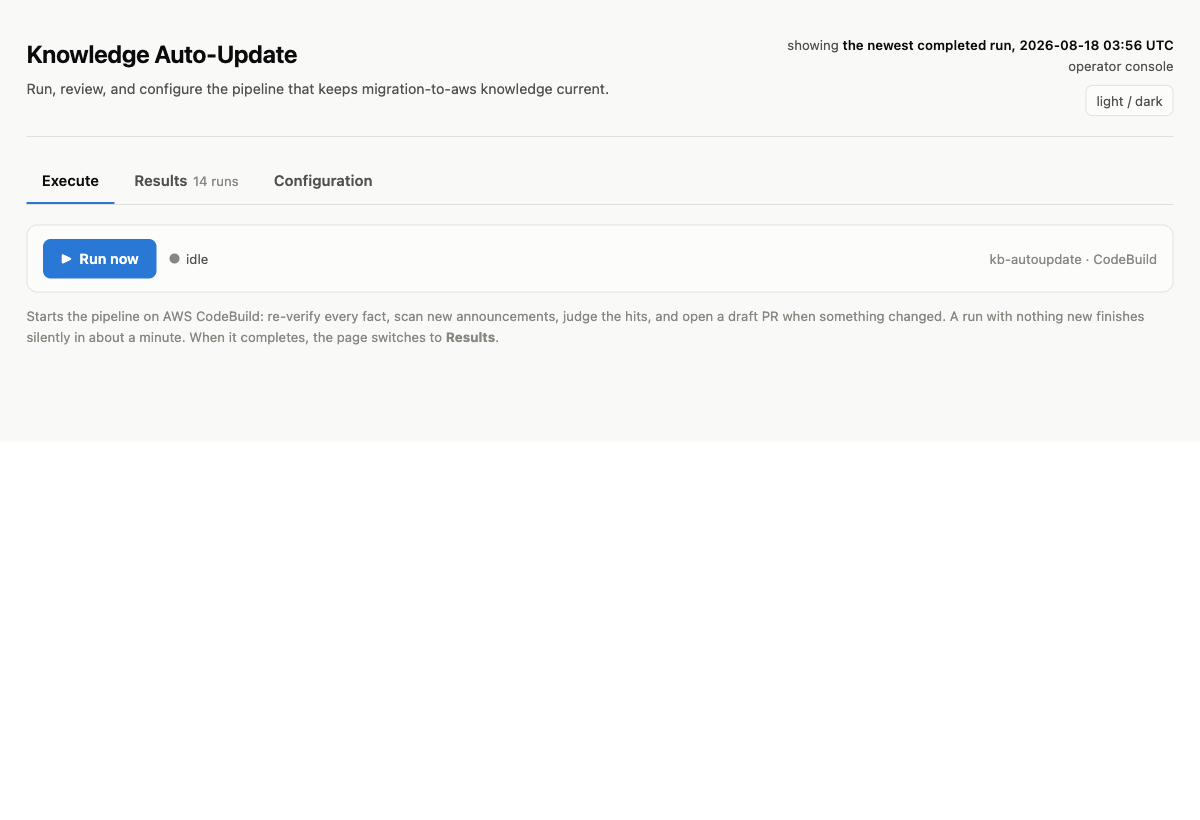
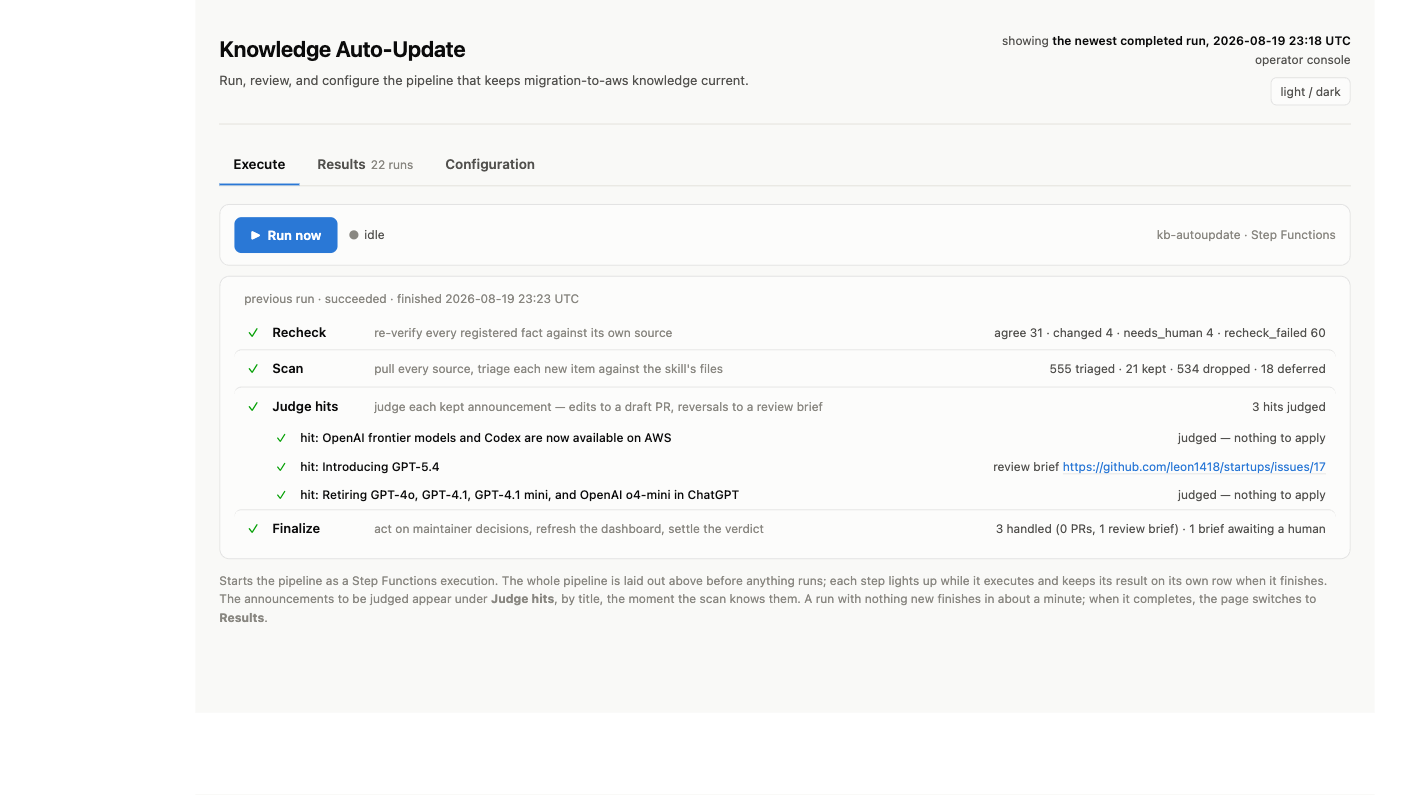
docs(kb-autoupdate): decision-brief loop, nine model calls, refreshed console screenshots

diff --git a/migrate/docs/kb-autoupdate-review.md b/migrate/docs/kb-autoupdate-review.md
@@ -71,21 +71,32 @@ for the thing it described, and the judge records that in an explicit "still tru
 distinction is exactly what a naive diff-and-rewrite lacks (§1's worked example is the case in
 point). Second, _how far it reaches:_ blast radius comes from searching the whole tree rather
 than from file descriptions, because a file can depend on a fact without being "about" it — and
-those are the files whose conclusions flip.
+those are the files whose conclusions flip. When any conclusion does flip, the judge writes one
+more thing: a _decision brief_ — what changed, the real options and what each depends on, a
+proposed position, and every assumption that position rests on — because a reversal opens a
+decision space (GA maturity, cost structure, workload fit) that no line-level rewrite can
+carry.
 
 **Layer 4 — Actions.** Independent consumers of judge output, and the only layer that writes
-anywhere. The draft PR is the only knowledge writer: it touches only locations the judge
-named, refuses any edit whose before-text is not actually present, and lists every skipped edit
-and its own known limits in the PR body — so the PR cannot be mistaken for a complete or
-infallible change. The dashboard is a long-lived GitHub issue rewritten every run (plus a
-local operator console over the same state); a ticked checkbox is a _request the next run acts
-on_, not a command executed on click — which is why it needs no API and no auth layer. The
-failure alert (SNS → email) exists because a quiet week and a dead pipeline must look
-different. New actions — notify a channel, regenerate a doc, target another repo — plug in
-without touching layers 1–3.
+anywhere. The verdict decides which of two products a change becomes. Mechanical changes — a
+value moved, a derived sentence to update — become a draft PR, the only knowledge writer: it
+touches only locations the judge named, refuses any edit whose before-text is not actually
+present, and lists every skipped edit and its own known limits in the PR body — so the PR
+cannot be mistaken for a complete or infallible change. A reversed recommendation, or an
+announcement the judge could not classify, is never rewritten: it becomes a _review issue_
+carrying the decision brief, and waits. The maintainer sets the position on the issue (adopt,
+adopt with changes, or reject); the next run then does the typing — it propagates the approved
+position through the same blast-radius machinery and opens the draft PR, which is still
+reviewed. The human holds both gates, direction first and execution after; the machine only
+does the mechanical middle. The dashboard is a long-lived GitHub issue rewritten every run
+(plus the operator console over the same state), and it lists every brief still waiting on a
+decision; a ticked checkbox is a _request the next run acts on_, not a command executed on
+click — which is why it needs no API and no auth layer. The failure alert (SNS → email)
+exists because a quiet week and a dead pipeline must look different. New actions — notify a
+channel, regenerate a doc, target another repo — plug in without touching layers 1–3.
 
 **Where AI ends and code begins.** The pipeline itself is deterministic; models appear at
-exactly seven points, each a narrow question under a forced JSON schema (all seven prompts
+exactly nine points, each a narrow question under a forced JSON schema (all nine prompts
 are in the appendix, verbatim). A model never triggers an action — every answer passes a code
 gate before it has any effect: the magnitude guard, the pin, the single-location rule for
 auto-edits, the judge cap, the before-text check. The alternative — agents with tool loops —
@@ -95,19 +106,21 @@ judgment point is unit-testable in isolation, and the one case that genuinely ne
 evidence (a re-verification that disagrees) is covered by a fixed second-opinion call rather
 than a loop.
 
-**The human stays in charge.** Nothing merges without review. A rejected conclusion is
-recorded as a _pin_ on the fact (with the evidence that would lift it), so the system never
-re-proposes the same rejected change weekly — the mechanism that already protects the one case
-where a vendor's own docs were wrong.
+**The human stays in charge.** Nothing merges without review, and nothing reversed is even
+_drafted_ without a maintainer's position. A rejected conclusion is recorded as a _pin_ on the
+fact (with the evidence that would lift it), so the system never re-proposes the same rejected
+change weekly — the mechanism that already protects the one case where a vendor's own docs
+were wrong.
 
 ## 3. Verification and deployment
 
 All on live sources and Bedrock (Haiku for extraction/triage, Sonnet for judgment), account
 767582656617. One verified run works through the four layers top to bottom. Discovery hits
-feed the judge, whose verdict routes the outcome — `no_change` ends in silence, `needs_human`
-(insufficient evidence) surfaces for review, anything else in a draft PR. Re-verification outcomes take the shorter path: an `agree` refreshes the fact's
-timestamp, anything else surfaces for a human with an independent second opinion attached —
-deliberately short of auto-editing, per §4's posture on value changes.
+feed the judge, whose verdict routes the outcome — `no_change` ends in silence, mechanical
+changes in a draft PR, and a reversed or unclassifiable change in a review issue that waits
+for a maintainer's decision. Re-verification outcomes take the shorter path: an `agree`
+refreshes the fact's timestamp, anything else surfaces for a human with an independent second
+opinion attached — deliberately short of auto-editing, per §4's posture on value changes.
 
 | Claim                                                 | Evidence                                                                                                                                                                                  |
 | ----------------------------------------------------- | ----------------------------------------------------------------------------------------------------------------------------------------------------------------------------------------- |
@@ -118,6 +131,7 @@ deliberately short of auto-editing, per §4's posture on value changes.
 | The whole loop closes                                 | button-press → 2–5 min run → draft PR #11 with per-edit justification; a no-news run finishes silently in ~70 s                                                                       |
 | Configuration is self-serving                         | two-pass bootstrap: 11 facts from the skill's declared volatile spots plus 84 typed claims extracted from prose (each with an HTTP-verified source URL, arriving disabled for human review) — the registry grew 6 → 99; UI edits are live on the next run |
 | Failures retry instead of vanishing                   | a hit deferred by the per-run judge cap returned on the next run and produced its draft PR — "seen" means *handled*, not fetched, so a deferred hit, a crashed judge, or a dead build all come back automatically                                          |
+| A reversal is a decision, not a rewrite               | flipped verdicts route to a four-section decision brief instead of a PR: on the runtime-instances case the brief named 4 real options and 8 explicit assumptions (GA maturity, unmodeled capacity-provider pricing, region limits) — and its proposed position warned against exactly the blanket rewrite a silent PR would have made. The first live brief opened the same day: an out-of-order GPT-5.4 replay that the judge refused to guess about |
 | Cost                                                  | ~$1–2 per full run at current caps (estimated from capped call counts — token usage is not yet instrumented); a quiet incremental run costs cents. Fixed cost ≈ the KMS key + one secret  |
 
 Deployment is deliberately small — the whole pipeline is one CloudFormation stack (16
@@ -135,9 +149,9 @@ separately visible state, so progress is first-class instead of log-grepping. Fa
 own channel — execution FAILED → EventBridge → SNS → email — so a dead pipeline cannot be
 mistaken for a quiet week.
 
-On the GitHub side the pipeline only ever produces reviewable artifacts: draft PRs and one
-long-lived dashboard issue. `main` changes only through reviewed PRs; the pipeline never
-merges. The POC has so far run against a maintainer's fork, which means zero footprint on
+On the GitHub side the pipeline only ever produces reviewable artifacts: draft PRs,
+review-brief issues, and one long-lived dashboard issue. `main` changes only through reviewed
+PRs; the pipeline never merges. The POC has so far run against a maintainer's fork, which means zero footprint on
 `awslabs/startups` — no secret, no workflow, no bot branch, and the GitHub token is
 fine-grained to the fork, returning 403 anywhere else _by construction_. Retargeting the real
 repo is a two-parameter change plus an org-scoped token (§5.2).
@@ -221,15 +235,18 @@ with the operator's alias.
 
 The header's three verbs are the three tabs.
 
-**Execute** — one button starts a Step Functions execution; every stage, and every judged
-hit, reports its own status as a chip while it runs, and the page switches to Results when
-the run completes. A no-news run finishes
-silently in about a minute.
+**Execute** — one button starts a Step Functions execution. The whole pipeline is laid out
+as a step list before anything runs, so the operator always knows what comes next; each step
+lights up while it executes and keeps its result on its own row when it finishes (the
+announcements being judged appear under Judge hits, by title, the moment the scan knows them,
+each ending in a draft-PR or review-brief link). The previous run's steps stay on screen
+between runs. A no-news run finishes in about a minute.
 
-![The Execute tab: a Run now button, the current build status, and nothing else](../kb-autoupdate-poc/screenshots/console-execute.png)
+![The Execute tab: the full pipeline as a step list — every step's status and result on its own row, judged hits with their PR or brief links](../kb-autoupdate-poc/screenshots/console-execute.png)
 
 **Results** — every archived run, summary first: a one-line verdict (*Something changed / Needs
-a look / All quiet*) with the draft-PR link when one was opened, four counters, and each
+a look / All quiet*) with the draft-PR or review-brief link when one was produced, a standing
+banner listing every brief still waiting on a maintainer's decision, four counters, and each
 monitor's detail behind a fold. The dropped-announcements list stays reviewable — every entry
 links to the original announcement, because that list is the only place a false negative can
 surface.
@@ -254,15 +271,17 @@ Idle cost is effectively zero.
 
 ---
 
-## Appendix — the seven model calls (prompt review)
+## Appendix — the nine model calls (prompt review)
 
 Every model call in the pipeline is a narrow question with a forced JSON schema, wrapped in
 code guards — the model answers, code decides. These are the prompts verbatim (extracted from
 the source, not paraphrased), each with its output contract and the guards that gate its
-effect. Reviewing these seven texts is reviewing all of the system's AI judgment. They have
+effect. Reviewing these nine texts is reviewing all of the system's AI judgment. They have
 already survived one round of AI review: it corrected an inverted unit-conversion rule, made
 the vendor framing neutral, added the judge's insufficient-evidence exit, and hardened three
-citation paths into mechanically checked quotes.
+citation paths into mechanically checked quotes. Calls 8 and 9 were added with the decision
+brief loop, after review feedback that a reversed recommendation needs a human position, not
+a rewrite.
 
 ### 1 · Recheck — does the stored value still hold?
 
@@ -340,7 +359,7 @@ If you keep it, list ONLY the files that actually need review, most affected fir
 
 ### 4 · Judge step 1 — what does this change mean?
 
-Model: Sonnet (one call per kept hit, capped per run; the hit's source/vendor is part of the input). Output contract: `verdict(value_change|schema_change|new_knowledge|no_change|needs_human) / old & new value / still_true / false_positive_files / search_terms / reasoning`. Guards around it: the per-run judge cap bounds cost; `needs_human` short-circuits to a human instead of forcing a confident class; search terms shorter than 4 chars are discarded.
+Model: Sonnet (one call per kept hit, capped per run; the hit's source/vendor is part of the input). Output contract: `verdict(value_change|schema_change|new_knowledge|no_change|needs_human) / old & new value / still_true / false_positive_files / search_terms / reasoning`. Guards around it: the per-run judge cap bounds cost; `needs_human` short-circuits — no blast radius, no edits — and opens a review issue instead of forcing a confident class; search terms shorter than 4 chars are discarded.
 
 ```
 You are deciding what a vendor announcement (AWS, OpenAI, Anthropic,
@@ -371,7 +390,7 @@ capability words whose claims may be affected (GPU, session cap, worker host).
 
 ### 5 · Judge step 2 — how far does it reach?
 
-Model: Sonnet (batched, ~30 grep hits per call, batch count capped). Output contract: per hit: `kind(value|derived|flipped|unaffected) / before / after / why / evidence_quote`. Guards around it: grep candidates are capped globally; `evidence_quote` is verified in code as a verbatim substring of the announcement — paraphrased citations are rejected (2 were, in the first live test); apply.py later refuses any edit whose `before` text is not actually present.
+Model: Sonnet (batched, ~30 grep hits per call, batch count capped). Output contract: per hit: `kind(value|derived|flipped|unaffected) / before / after / why / evidence_quote`. Guards around it: grep candidates are capped globally; `evidence_quote` is verified in code as a verbatim substring of the announcement — paraphrased citations are rejected (2 were, in the first live test); apply.py later refuses any edit whose `before` text is not actually present. Any `flipped` finding additionally reroutes the whole hit away from the PR path and into the decision brief (call 8) — a reversed conclusion is never auto-rewritten.
 
 ```
 You are computing the blast radius of a fact change across a migration-advice skill.
@@ -441,4 +460,42 @@ Rules:
   NEVER invent a URL you are not confident exists.
 - recheck.locate: a natural-language instruction to find the ONE field on that page.
 - confidence: high | medium | low. LOW means unsure the URL or locate is right.
+```
+
+### 8 · Judge step 3 — the decision brief, when a conclusion reverses
+
+Model: Sonnet (one call, only when step 2 found flipped locations). Output contract: `what_changed / decision_space[{option, depends_on}] / proposed_position / assumptions[]`. Guards around it: the brief never edits anything — it becomes the review issue's body, and no rewrite happens until a maintainer ticks a decision on that issue; if this call fails, the issue still opens with the mechanical sections (a thin brief beats a silent rewrite).
+
+```
+A vendor announcement has REVERSED one or more of a migration skill's
+recommendations. Reversals are not rewritten automatically: a capability new at GA may be
+unproven, may carry a different cost structure, and may not apply to every workload type.
+The maintainer decides the position; your job is to write the decision brief they decide from.
+
+Be concrete and skeptical, and do not oversell the new capability:
+  what_changed       - plain language, 2-3 sentences, no marketing wording
+  decision_space     - the REAL options, including keeping the old recommendation for some
+                       workloads. Each option names what adopting it depends on.
+  proposed_position  - the single position you would recommend, stated so it could be pasted
+                       into the skill after review
+  assumptions        - every assumption the proposed position rests on: GA maturity, pricing,
+                       regional availability, workload fit. Anything a maintainer should
+                       verify before adopting. An unlisted assumption is a trap.
+```
+
+### 9 · Decision execution — rewrite under the approved position
+
+Model: Sonnet (one call, only when a maintainer ticked "adopt with changes" — an unedited "adopt" reuses the original step-2 texts with no model call). Output contract: per location: `file / line / after`. Guards around it: only runs on a position a human wrote or approved; a location it cannot honestly rewrite is dropped with a reason, never invented; the result still passes apply.py's before-text check and ships as a draft PR — the second human gate.
+
+```
+A maintainer reviewed a reversed recommendation and approved a POSITION —
+possibly different from the one originally proposed. Rewrite each location's replacement text
+so it expresses the approved position, and nothing beyond it.
+
+Rules:
+  - `after` must be a drop-in replacement for the shown current text: same register, similar
+    length, valid for the surrounding markdown (a table fragment stays a table fragment).
+  - Do not import claims that are not in the approved position or the announcement.
+  - If a location cannot honestly be rewritten under the approved position, return it with
+    after = "" and say why in notes — an omission with a reason beats an invented sentence.
 ```
